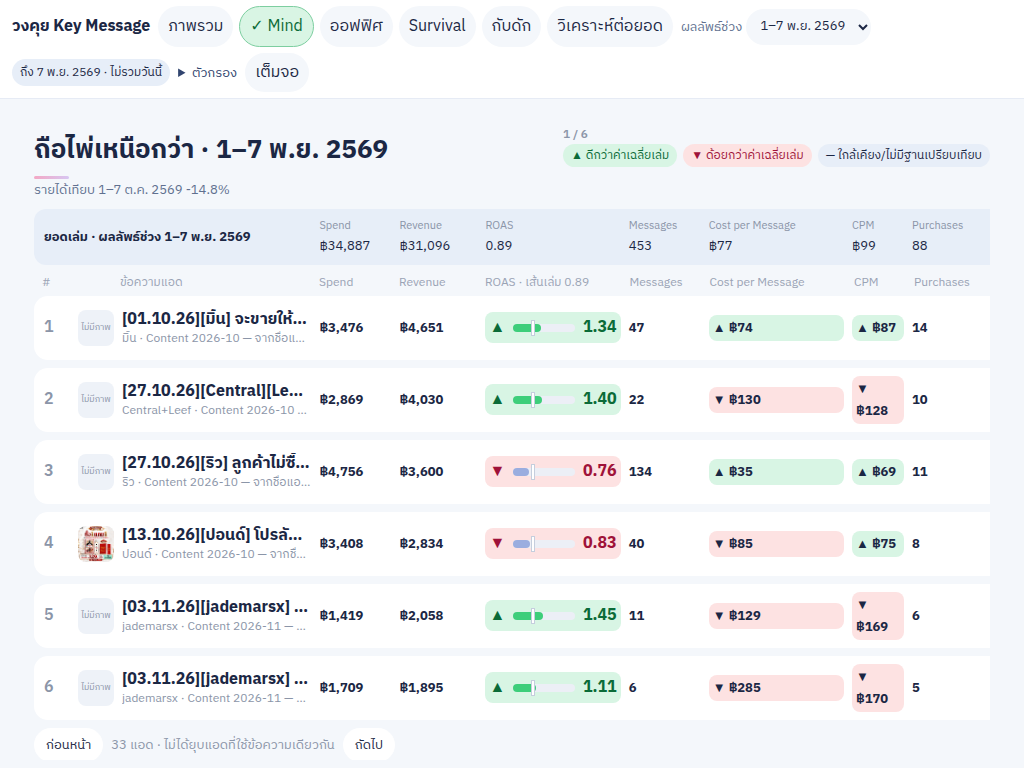
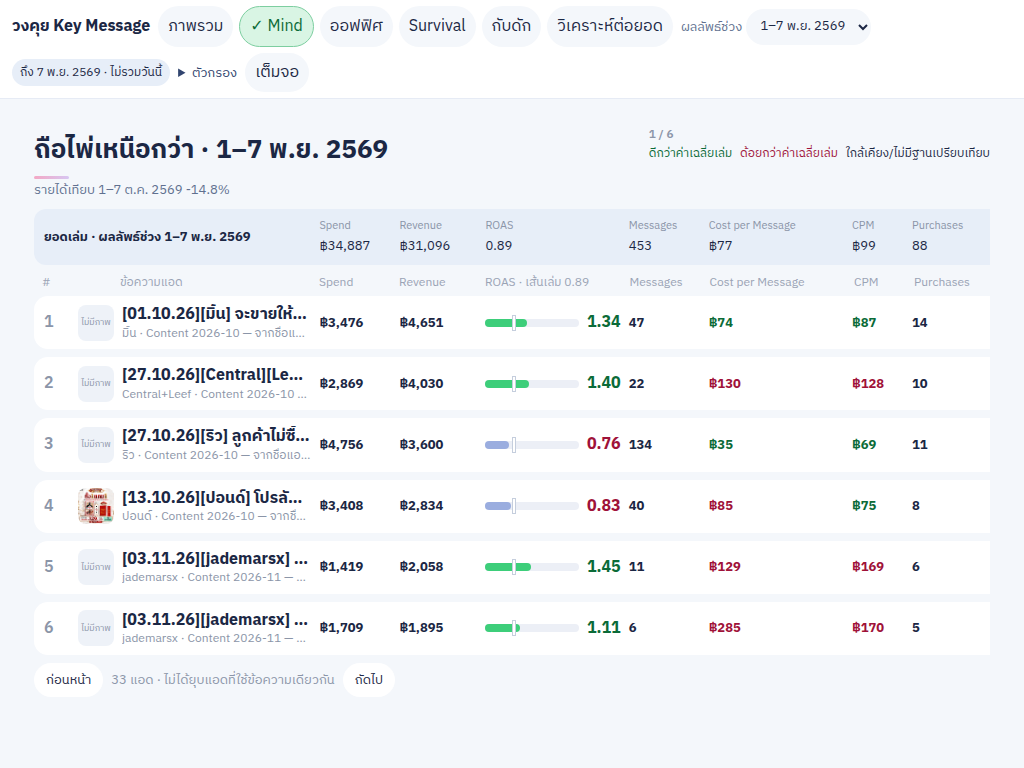
fix: color conditional metrics with text only
Rate numbers stay green or red against the book baseline, without a
pill, border, or arrow. The figures stay on one line. Selected tabs
keep the light green background.

diff --git a/public/web.js b/public/web.js
@@ -1,10 +1,10 @@
-import { analysisItemId } from "/shared/analysis.js?v=20261108t98";
-import { rates } from "/shared/metrics.js?v=20261108t98";
-import { comparisonRows, pageOf } from "/shared/comparison.js?v=20261108t98";
-import { FROZEN_PERFORMANCE } from "/shared/cutoff.js?v=20261108t98";
-import { changePct, metricTone, sameLengthBase, TONE_LABEL } from "/shared/conditional.js?v=20261108t98";
-import { contentBadge } from "/shared/status-labels.js?v=20261108t98";
-import { TABLE_HEAD } from "/shared/labels.js?v=20261108t98";
+import { analysisItemId } from "/shared/analysis.js?v=20261108t99";
+import { rates } from "/shared/metrics.js?v=20261108t99";
+import { comparisonRows, pageOf } from "/shared/comparison.js?v=20261108t99";
+import { FROZEN_PERFORMANCE } from "/shared/cutoff.js?v=20261108t99";
+import { changePct, metricTone, sameLengthBase, TONE_LABEL } from "/shared/conditional.js?v=20261108t99";
+import { contentBadge } from "/shared/status-labels.js?v=20261108t99";
+import { TABLE_HEAD } from "/shared/labels.js?v=20261108t99";
 
 const BOOKS = [
   ["Mind", "ถือไพ่เหนือกว่า"],
@@ -312,17 +312,13 @@ function metricLine(ad) {
   return line;
 }
 
-function toneMark(tone) {
-  if (tone === "better") return "▲ ";
-  if (tone === "worse") return "▼ ";
-  return "";
-}
-
 function coloredNum(metric, text, tone) {
-  const node = el("span", "scan-num cell-" + tone, toneMark(tone) + text);
+  const node = el("span", "scan-num cell-" + tone, text);
+  const label = TONE_LABEL[tone] || TONE_LABEL.neutral;
   node.dataset.metric = metric;
   node.dataset.tone = tone;
-  node.title = TONE_LABEL[tone] || TONE_LABEL.neutral;
+  node.title = label;
+  node.setAttribute("aria-label", text + " " + label);
   return node;
 }
 
@@ -332,9 +328,9 @@ function volumeNum(metric, text) {
 
 function legend() {
   const box = el("p", "tone-legend");
-  box.append(el("span", "cell-better", "▲ " + TONE_LABEL.better));
-  box.append(el("span", "cell-worse", "▼ " + TONE_LABEL.worse));
-  box.append(el("span", "cell-neutral", "— " + TONE_LABEL.neutral));
+  box.append(el("span", "cell-better", TONE_LABEL.better));
+  box.append(el("span", "cell-worse", TONE_LABEL.worse));
+  box.append(el("span", "cell-neutral", TONE_LABEL.neutral));
   return box;
 }
 
@@ -399,11 +395,9 @@ function sourceLink(ad) {
 
 function roasCell(value, baseline) {
   const tone = metricTone("roas", value, baseline);
-  const cell = el("div", "scan-roas cell-" + tone);
+  const cell = el("div", "scan-roas");
   cell.dataset.metric = "roas";
   cell.dataset.tone = tone;
-  cell.title = TONE_LABEL[tone] || TONE_LABEL.neutral;
-  if (tone === "better" || tone === "worse") cell.append(el("span", "tone-mark", tone === "better" ? "▲" : "▼"));
   const track = el("div", "scan-track");
   const scale = Math.max(3, baseline || 0, value || 0, 0.01);
   const fill = el("i", tone === "worse" ? "under" : tone === "better" ? "over" : "neutral");
@@ -414,6 +408,11 @@ function roasCell(value, baseline) {
     mark.style.left = Math.min(100, (baseline / scale) * 100) + "%";
     track.append(mark);
   }
-  cell.append(track, el("strong", tone === "neutral" ? "" : tone, value == null ? "—" : value.toFixed(2)));
+  const figure = value == null ? "—" : value.toFixed(2);
+  const number = el("strong", "cell-" + tone, figure);
+  const label = TONE_LABEL[tone] || TONE_LABEL.neutral;
+  number.title = label;
+  number.setAttribute("aria-label", figure + " " + label);
+  cell.append(track, number);
   return cell;
 }

diff --git a/public/app.js b/public/app.js
@@ -1,10 +1,10 @@
-import { analysisItemId } from "/shared/analysis.js?v=20261108t98";
-import { changePct, metricTone, TONE_LABEL } from "/shared/conditional.js?v=20261108t98";
-import { TABLE_HEAD } from "/shared/labels.js?v=20261108t98";
-import { rates, sumTotals, volumeFlag } from "/shared/metrics.js?v=20261108t98";
-import { MAX_NOTE, NOTE_IDS, SLIDE_IDS } from "/shared/slides.js?v=20261108t98";
-import { contentBadge } from "/shared/status-labels.js?v=20261108t98";
-import { renderWeb } from "/web.js?v=20261108t98";
+import { analysisItemId } from "/shared/analysis.js?v=20261108t99";
+import { changePct, metricTone, TONE_LABEL } from "/shared/conditional.js?v=20261108t99";
+import { TABLE_HEAD } from "/shared/labels.js?v=20261108t99";
+import { rates, sumTotals, volumeFlag } from "/shared/metrics.js?v=20261108t99";
+import { MAX_NOTE, NOTE_IDS, SLIDE_IDS } from "/shared/slides.js?v=20261108t99";
+import { contentBadge } from "/shared/status-labels.js?v=20261108t99";
+import { renderWeb } from "/web.js?v=20261108t99";
 
 const BOOKS = [
   { id: "Mind", name: "ถือไพ่เหนือกว่า", cls: "mind" },
@@ -760,25 +760,20 @@ function toneTitle(tone) {
   return TONE_LABEL[tone] || TONE_LABEL.neutral;
 }
 
-function toneMark(tone) {
-  if (tone === "better") return "▲ ";
-  if (tone === "worse") return "▼ ";
-  return "";
-}
-
 function toneLegend() {
   const row = el("p", "tone-legend");
-  row.append(el("span", "cell-better", "▲ " + TONE_LABEL.better));
-  row.append(el("span", "cell-worse", "▼ " + TONE_LABEL.worse));
-  row.append(el("span", "cell-neutral", "— " + TONE_LABEL.neutral));
+  row.append(el("span", "cell-better", TONE_LABEL.better));
+  row.append(el("span", "cell-worse", TONE_LABEL.worse));
+  row.append(el("span", "cell-neutral", TONE_LABEL.neutral));
   return row;
 }
 
 function taggedCell(metric, text, tone) {
-  const node = el("b", "pnum cell-" + tone, toneMark(tone) + text);
+  const node = el("b", "pnum cell-" + tone, text);
   node.dataset.metric = metric;
   node.dataset.tone = tone;
   node.title = toneTitle(tone);
+  node.setAttribute("aria-label", text + " " + toneTitle(tone));
   return node;
 }
 
@@ -811,11 +806,10 @@ function presentAdRow(ad, index, bookRate) {
   row.append(name);
   row.append(taggedCell("spend", baht(ad.spend), "volume"));
   const roasTone = metricTone("roas", rate.roas, base.roas);
-  const roasWrap = el("div", "pcell cell-" + roasTone);
+  const roasWrap = el("div", "pcell");
   roasWrap.dataset.metric = "roas";
   roasWrap.dataset.tone = roasTone;
   roasWrap.title = toneTitle(roasTone);
-  if (roasTone === "better" || roasTone === "worse") roasWrap.append(el("span", "tone-mark", roasTone === "better" ? "▲" : "▼"));
   roasWrap.append(roasBar(rate.roas, base.roas));
   row.append(roasWrap);
   row.append(taggedCell("revenue", baht(ad.revenue), "volume"));

diff --git a/public/styles.css b/public/styles.css
@@ -637,14 +637,16 @@ dialog a { color: #241e1c; }
 .compare-line { margin: 0 0 6px; color: #60708f; font-size: 13px; }
 .tone-better, .cell-better { color: #0b6b38; }
 .tone-worse, .cell-worse { color: #9f1239; }
-.cell-better { background: #d8f5e4; }
-.cell-worse { background: #fde2e2; }
+.cell-better, .cell-worse, .cell-neutral, .cell-volume, .cell-baseline {
+  background: transparent;
+  border: 0;
+  padding: 0;
+  border-radius: 0;
+  box-shadow: none;
+}
 .cell-neutral, .cell-volume, .cell-baseline { color: #1b2744; }
-.tone-legend { display: flex; flex-wrap: wrap; gap: 6px; margin: 0 0 6px; font-size: 12px; }
-.tone-legend span { border-radius: 999px; padding: 2px 8px; }
-.tone-legend .cell-neutral { background: #e7eef8; }
-.scan-num.cell-better, .scan-num.cell-worse, .scan-roas.cell-better, .scan-roas.cell-worse { border-radius: 8px; padding: 2px 4px; }
-.pnum.cell-better, .pnum.cell-worse, .pcell.cell-better, .pcell.cell-worse { border-radius: 8px; padding: 1px 3px; }
+.scan-num, .pnum, .scan-roas strong { white-space: nowrap; }
+.tone-legend { display: flex; flex-wrap: wrap; gap: 8px; margin: 0 0 6px; font-size: 12px; background: transparent; }
 .scan-track i.neutral { background: #d5dbe8; }
 #web-stage:fullscreen { background: #f4f7fb; overflow: auto; padding: 12px 16px 20px; }
 #web-stage:fullscreen .slide-notes { display: block; }
@@ -876,6 +878,12 @@ body.mode-present .content { overflow: hidden; }
 .ppager button { border: 0; background: #fff; border-radius: 999px; padding: 4px 8px; color: #1b2744; }
 .roas-fill.neutral { background: #d5dbe8; }
 .roas-num.neutral { color: #60708f; }
+.scan-num.cell-better,
+.pnum.cell-better,
+.scan-roas strong.cell-better { color: #0b6b38; }
+.scan-num.cell-worse,
+.pnum.cell-worse,
+.scan-roas strong.cell-worse { color: #9f1239; }
 body.gate { display: grid; place-items: center; background: #f4f7fb; color: #1b2744; }
 .gate-card { width: min(460px, calc(100% - 32px)); background: #fff; border-radius: 16px; padding: 24px; }
 .gate-card h1 { margin: 0 0 8px; font-size: 22px; }

diff --git a/test/ui.test.js b/test/ui.test.js
@@ -97,8 +97,27 @@ test("November overview and Mind book stay on the selected period", async () => 
       assert.ok(headers.some((text) => text === label || text.startsWith(label + " ")), label);
     }
     assert.equal(headers.some((label) => /บาท\/แชท|ซื้อ÷แชท|รายได้ Meta/.test(label)), false);
-    const judged = await page.$$eval(".cell-better, .cell-worse", (nodes) => nodes.length);
+    const judged = await page.$$eval(".scan-row .cell-better, .scan-row .cell-worse", (nodes) => nodes.length);
     assert.ok(judged > 0);
+    const ink = await page.$$eval(".scan-row [data-metric='costPerMsg'], .scan-row [data-metric='cpm'], .scan-row [data-metric='cvrProxy'], .scan-row [data-metric='aov']", (nodes) => nodes.map((node) => {
+      const style = getComputedStyle(node);
+      return {
+        text: node.textContent,
+        color: style.color,
+        background: style.backgroundColor,
+        whiteSpace: style.whiteSpace,
+      };
+    }));
+    assert.ok(ink.length >= 4);
+    for (const cell of ink) {
+      assert.equal(/▲|▼/.test(cell.text), false);
+      assert.ok(cell.background === "transparent" || cell.background === "rgba(0, 0, 0, 0)");
+      assert.equal(cell.whiteSpace, "nowrap");
+    }
+    const colored = ink.filter((cell) => cell.color === "rgb(11, 107, 56)" || cell.color === "rgb(159, 18, 57)");
+    assert.ok(colored.length > 0);
+    const tab = await page.$eval("[data-book='Mind']", (node) => getComputedStyle(node).backgroundColor);
+    assert.equal(tab, "rgb(217, 245, 228)");
     assert.equal(await page.$eval("[data-book='Mind']", (node) => node.getAttribute("aria-pressed")), "true");
     assert.equal(await page.$eval("#report-period", (node) => node.value), "nov1_7");
     const pages = await page.$eval(".ref-page", (node) => node.textContent);

diff --git a/public/index.html b/public/index.html
@@ -4,7 +4,7 @@
   <meta charset="utf-8">
   <meta name="viewport" content="width=device-width, initial-scale=1">
   <title>วงคุย Key Message — 1–7 พ.ย. 2569</title>
-  <link rel="stylesheet" href="/styles.css?v=20261108t98">
+  <link rel="stylesheet" href="/styles.css?v=20261108t99">
 </head>
 <body class="mode-web">
   <div id="boot-error" hidden></div>
@@ -76,7 +76,7 @@
       <button type="submit" value="cancel">ปิดภาพ</button>
     </form>
   </dialog>
-  <script src="/boot.js?v=20261108t98"></script>
-  <script type="module" src="/app.js?v=20261108t98"></script>
+  <script src="/boot.js?v=20261108t99"></script>
+  <script type="module" src="/app.js?v=20261108t99"></script>
 </body>
 </html>

diff --git a/public/login.html b/public/login.html
@@ -4,7 +4,7 @@
   <meta charset="utf-8">
   <meta name="viewport" content="width=device-width, initial-scale=1">
   <title>เข้าสู่ระบบ — วงคุย Key Message</title>
-  <link rel="stylesheet" href="/styles.css?v=20261108t98">
+  <link rel="stylesheet" href="/styles.css?v=20261108t99">
 </head>
 <body class="gate">
   <main class="gate-card">
@@ -16,6 +16,6 @@
       <p id="login-error" class="login-error"></p>
     </form>
   </main>
-  <script type="module" src="/login.js?v=20261108t98"></script>
+  <script type="module" src="/login.js?v=20261108t99"></script>
 </body>
 </html>
